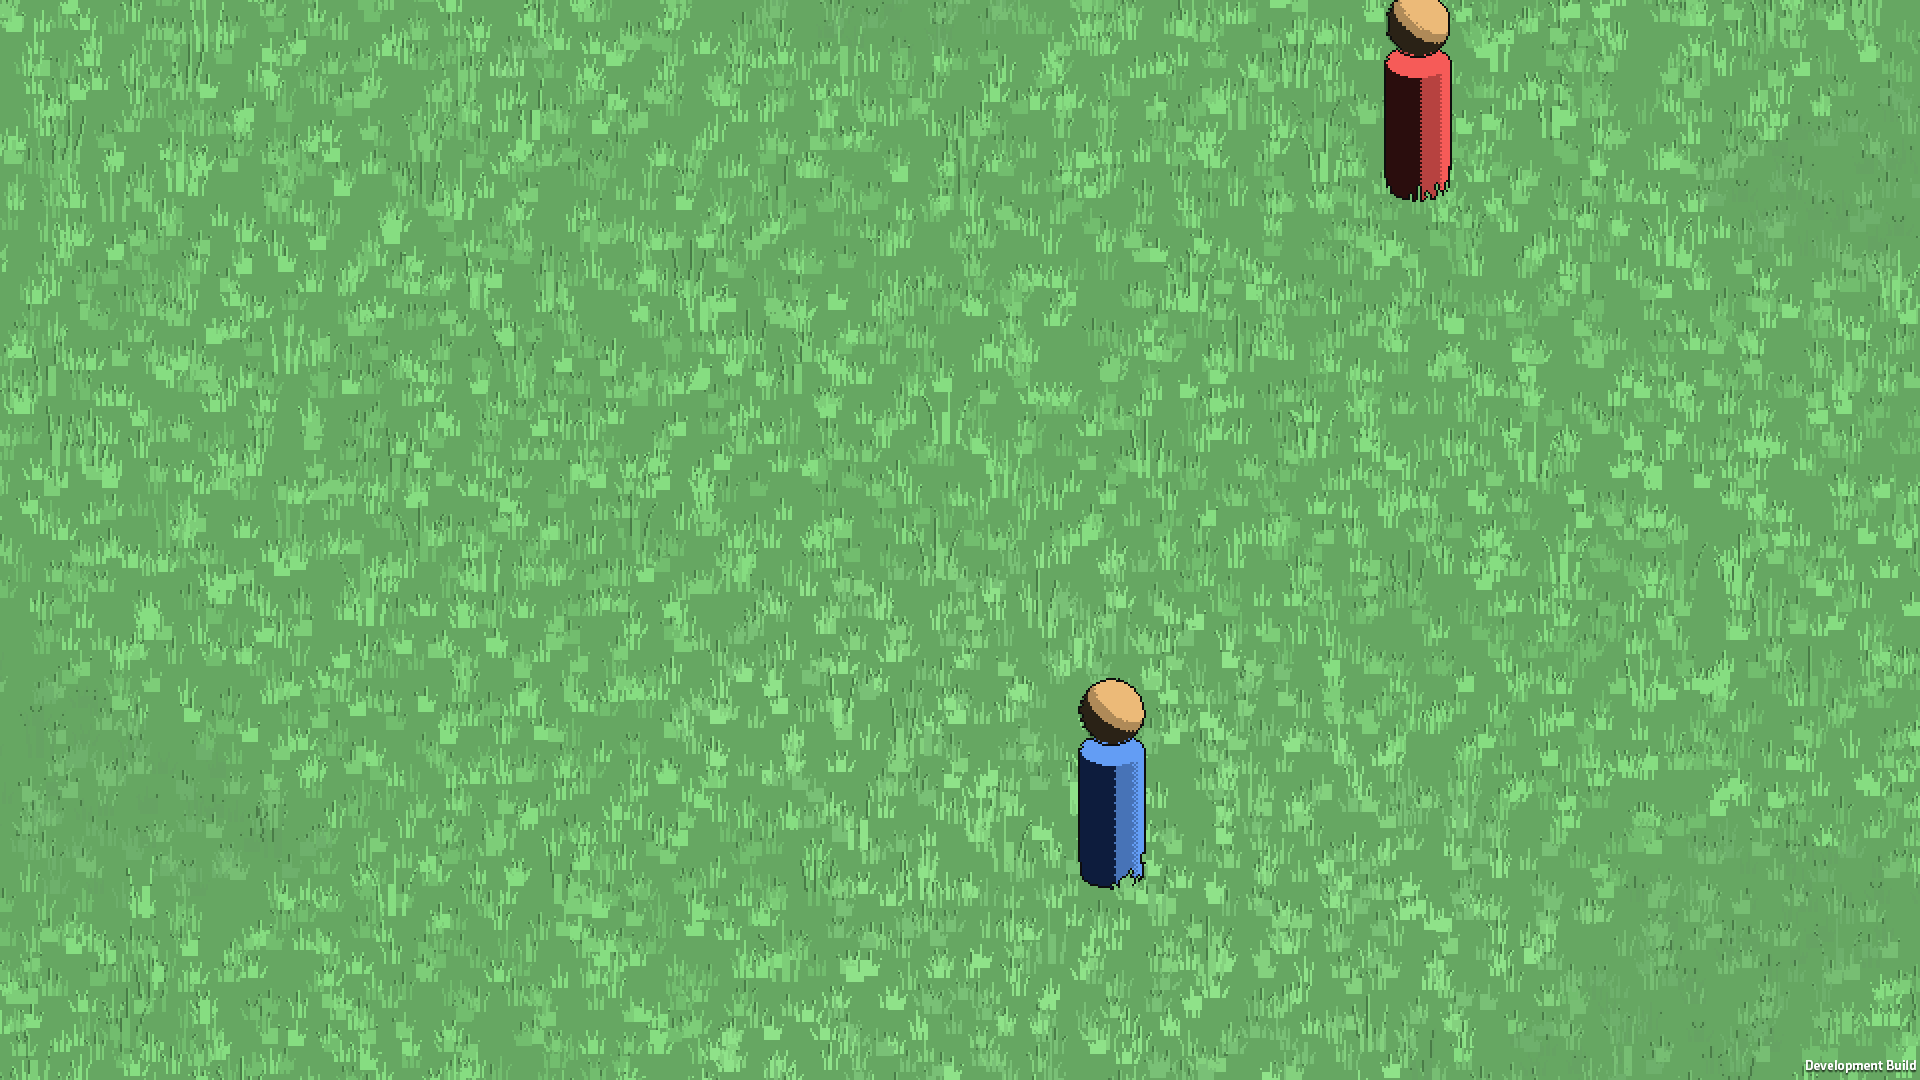
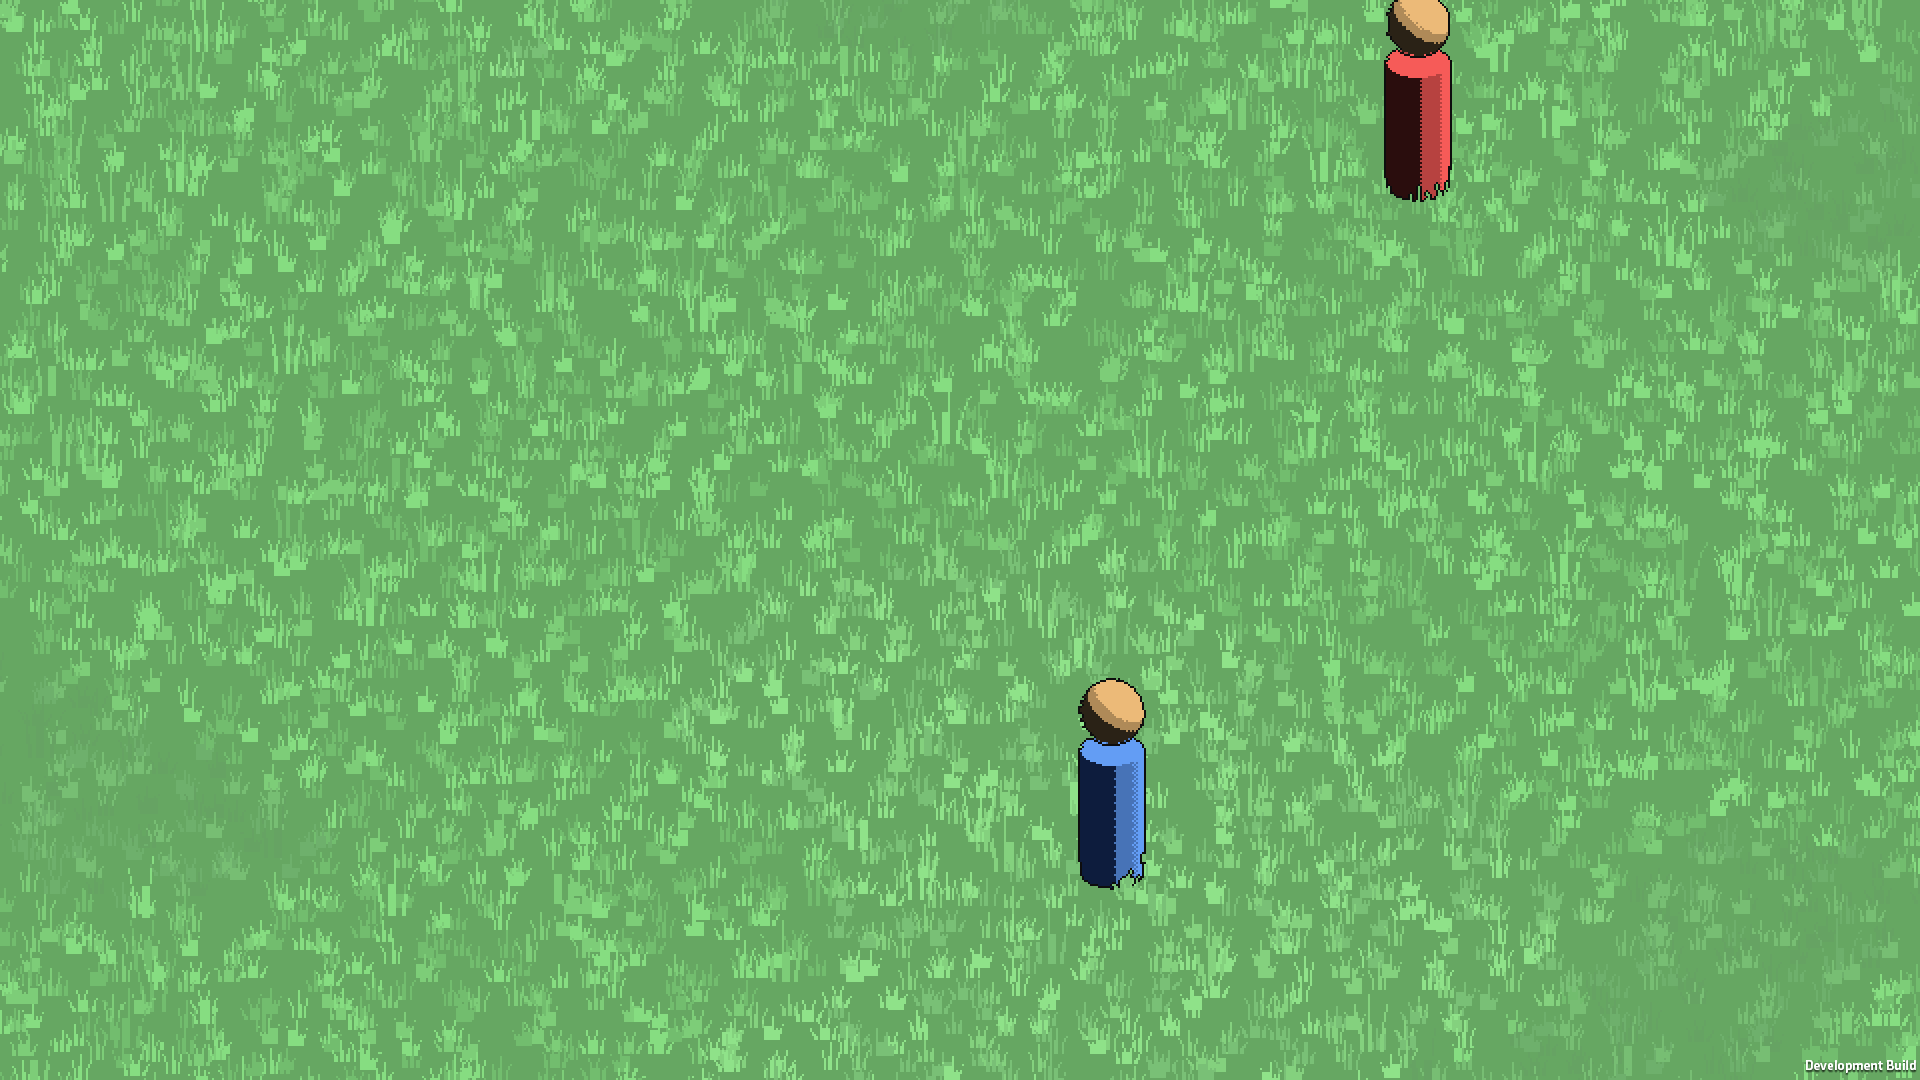
docs(pixelart): r25 归档更新——草坪降档关闭后的复验批（头部毛边消除）
头部左弧区降档暗档色 36px → 0（精确回到草基色），描边成贴身细线；
判据仍全部核心项通过。README 补第五根因与复验读数，登记行更新。

diff --git a/docs/images/pixelart-path/r25/README.md b/docs/images/pixelart-path/r25/README.md
@@ -16,15 +16,23 @@
 > 4. **密度图案满幅按模式归一**（`f781bae1`）：密度两态撕满一条带需要整带摆幅（±1 个间距），
 >    归一挪到物体 pass 按模式折算（Bayer 满幅 ±0.5 间距 / 密度 ±1 间距），Bayer 侧数值行为
 >    不变。首轮 r25 出图密度档跳变率掉到 0.327 即此回归，本轮已恢复。
+> 5. **草坪全系关闭连通域降档**（`983ed426`）：创始人复验报"头上描边毛边超级严重"。逐像素
+>    分类定位：墨线全程闭合，毛边是**紧贴剪影外侧的草地像素被降档压暗一档**（`102,167,98 →
+>    73,124,71`，聚合窗格跨剪影混入物体深度/法线 ⇒ 误判"面转折"）——与草叶无关（头部高度
+>    够不着），r24 就存在、被满屏麻点掩盖。修复 = 草坪 13 材质（地面 + 3 底色 + 9 草簇档）
+>    `_AAScale = 0`（`Configure` 新增 `aaScale` 参数，角色/道具保持 1），草叶边缘深噪同机制
+>    一并消除。
 
 ## 判读
 
 - **角色剪影闭合**：mid 机位染色图（角色=红/墨线=黑）显示左剪影整条有墨、底缘贴合收口；
   close 机位左下弧段墨线贴身走完，不再有"描边浮在草上"的缝。
-- **抖动观感**：角色大面干净，只剩明暗交界处一条窄过渡带（Bayer 0.21 的渐变态）。
+- **描边外圈无毛边**：头部左弧区降档暗档色 `[73,124,71]` **36 px → 0**（精确回到草基色），
+  描边成为贴身的一条细黑线；草叶边缘深噪（同机制）一并消失。
+- **抖动观感**：角色大面干净，只剩明暗交界处一条窄过渡带（Bayer 0.21 的渐变态；
+  同机位 0/0.21/0.35/0.5 四档对照见本轮验证记录）。
 - **判据**：全部核心判据通过——密度档跳变率 **0.863**（两态撕边恢复；回归时 0.327）、
   dbg-outline 墨线 1704 px、mid vs albedo 差 100%（光照色带在生效）、场地占比 >99%。
-  pl6-mid/close/wide 三档与修复前轮逐位一致（Bayer 路径未受密度归一影响）。
   「亮暗跨度 0.46 / 平坦占比 0.61」为关卡档读数行（判定门按试点 pa-* 档校准），与前轮同量级。
 - 出图：v0.3.0 dev 重建（`external/build/0.3.0/win64/`；注意 `external/build/` 根下的
   exe 是 9 月 21 日旧残留，别用它出图）。

diff --git a/docs/项目/交接/活跃任务登记.md b/docs/项目/交接/活跃任务登记.md
@@ -7,14 +7,16 @@
 ## 当前活跃交接文档
 
 - （**无独立交接档 · 待创始人验收**）像素化路径 · 纯草坪验收场（关卡 6）**角色缝隙 + 抖动定标
-  修复轮（r25）**——创始人报「角色左下角有缝隙」「色彩抖动怪」，已修四个根因并提交：
-  描边兜底扩到相切更近侧剪影（`8be645e9`，角色剪影一圈闭合）/ 抖动幅度单位重定标
+  修复轮（r25）**——创始人报「角色左下角有缝隙」「色彩抖动怪」「头上描边毛边」，已修五个根因
+  并提交：描边兜底扩到相切更近侧剪影（`8be645e9`，角色剪影一圈闭合）/ 抖动幅度单位重定标
   （`0ee64fc4`，边界间距 1/level 口径）/ 默认强度定 0.21（`9e7b5d84`，创始人定值，
-  118 .mat 推平）/ 密度图案满幅按模式归一（`f781bae1`）；
+  118 .mat 推平）/ 密度图案满幅按模式归一（`f781bae1`）/ 草坪全系关闭连通域降档
+  （`983ed426`，剪影旁草地误压暗的毛边 + 草叶边缘深噪，13 材质 `_AAScale=0`，Configure
+  新增 aaScale 参数）；
   **验收产物（可直接点开）：`F:\VSCode\pirate-crew-3d-unity\docs\images\pixelart-path\r25\README.md`**
-  （判据全部核心项通过；染色图对比 F:\tmp\map-r24-mid.png → F:\tmp\map-r25-mid.png）；
-  待裁决：草叶边缘的深色内线（连通域降档机制，非抖动）是否保留——不想要则草材质 `_AAScale=0`
-  单独关；出图注意：`external/build/` 根下的 exe 是 9/21 旧残留，新版在 `external/build/0.3.0/win64/`。
+  （判据全部核心项通过；头部弧区降档色 36px→0；染色图对比 F:\tmp\map-r24-mid.png →
+  F:\tmp\map-r25-mid.png）；出图注意：`external/build/` 根下的 exe 是 9/21 旧残留，
+  新版在 `external/build/0.3.0/win64/`。
 
 - `docs/项目/交接/废弃化工厂样板关-交接.md`（任务：**第三样板关「废弃化工厂」**——
   创始人 2026-09-29 口谕「独立分支 + 新样板关 + 必须快」；分支 `feat/chemplant-scene`
